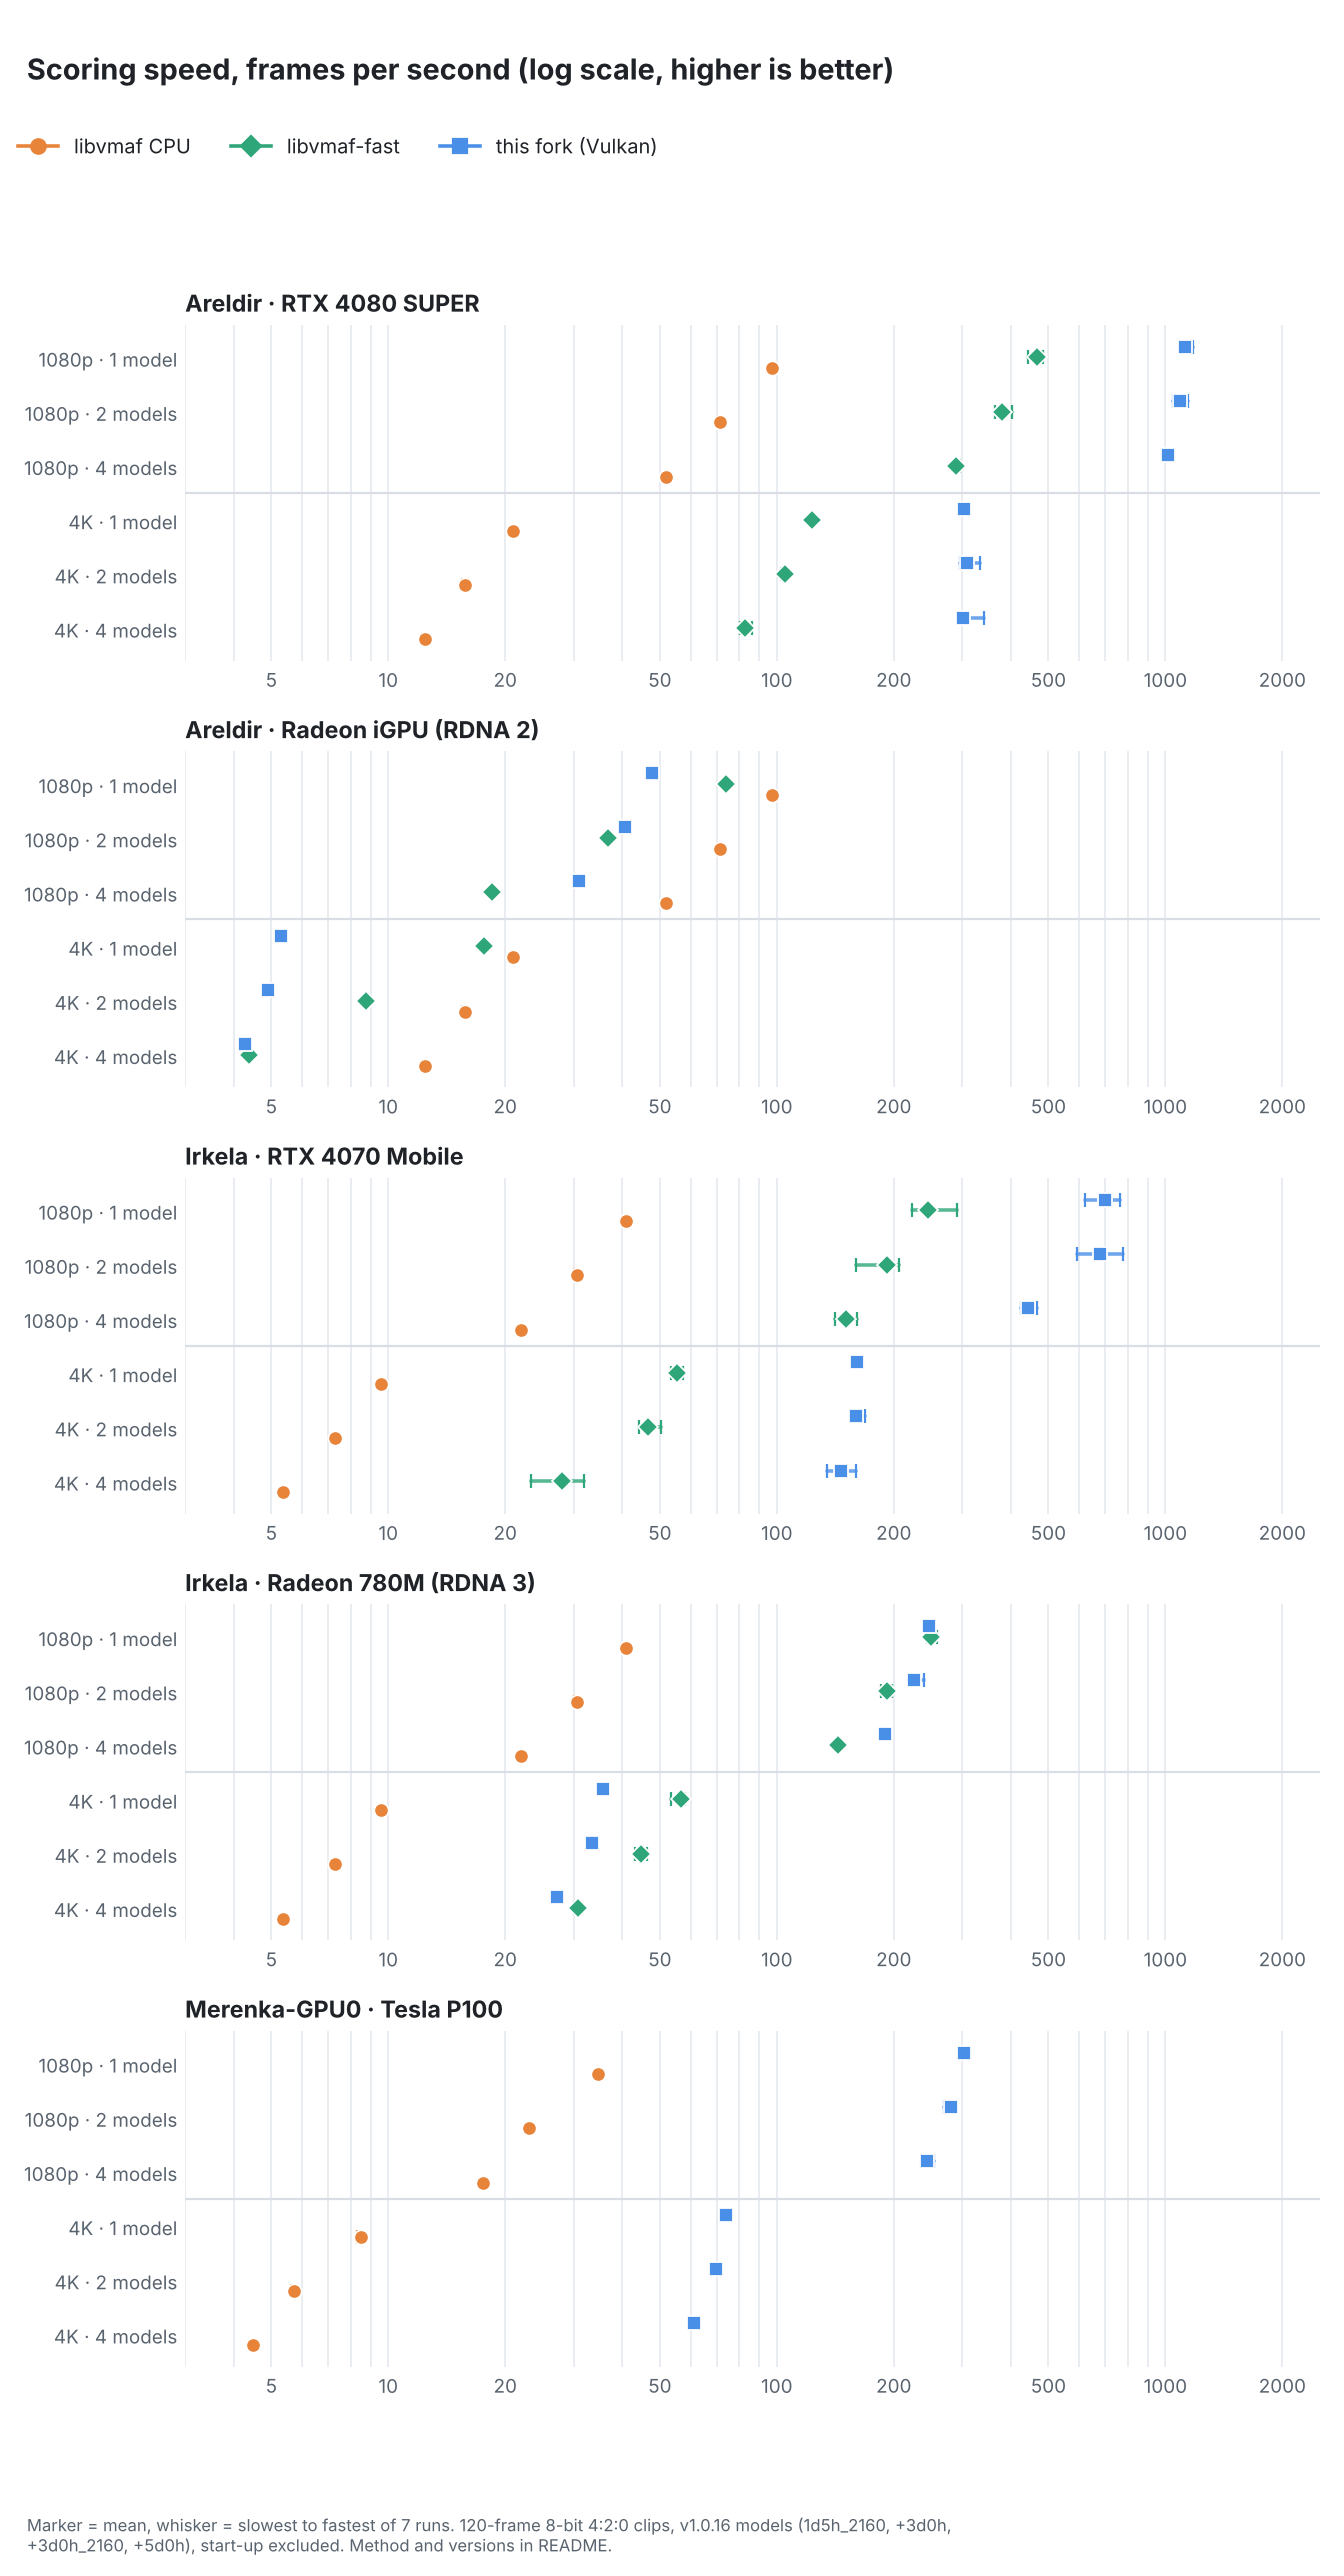
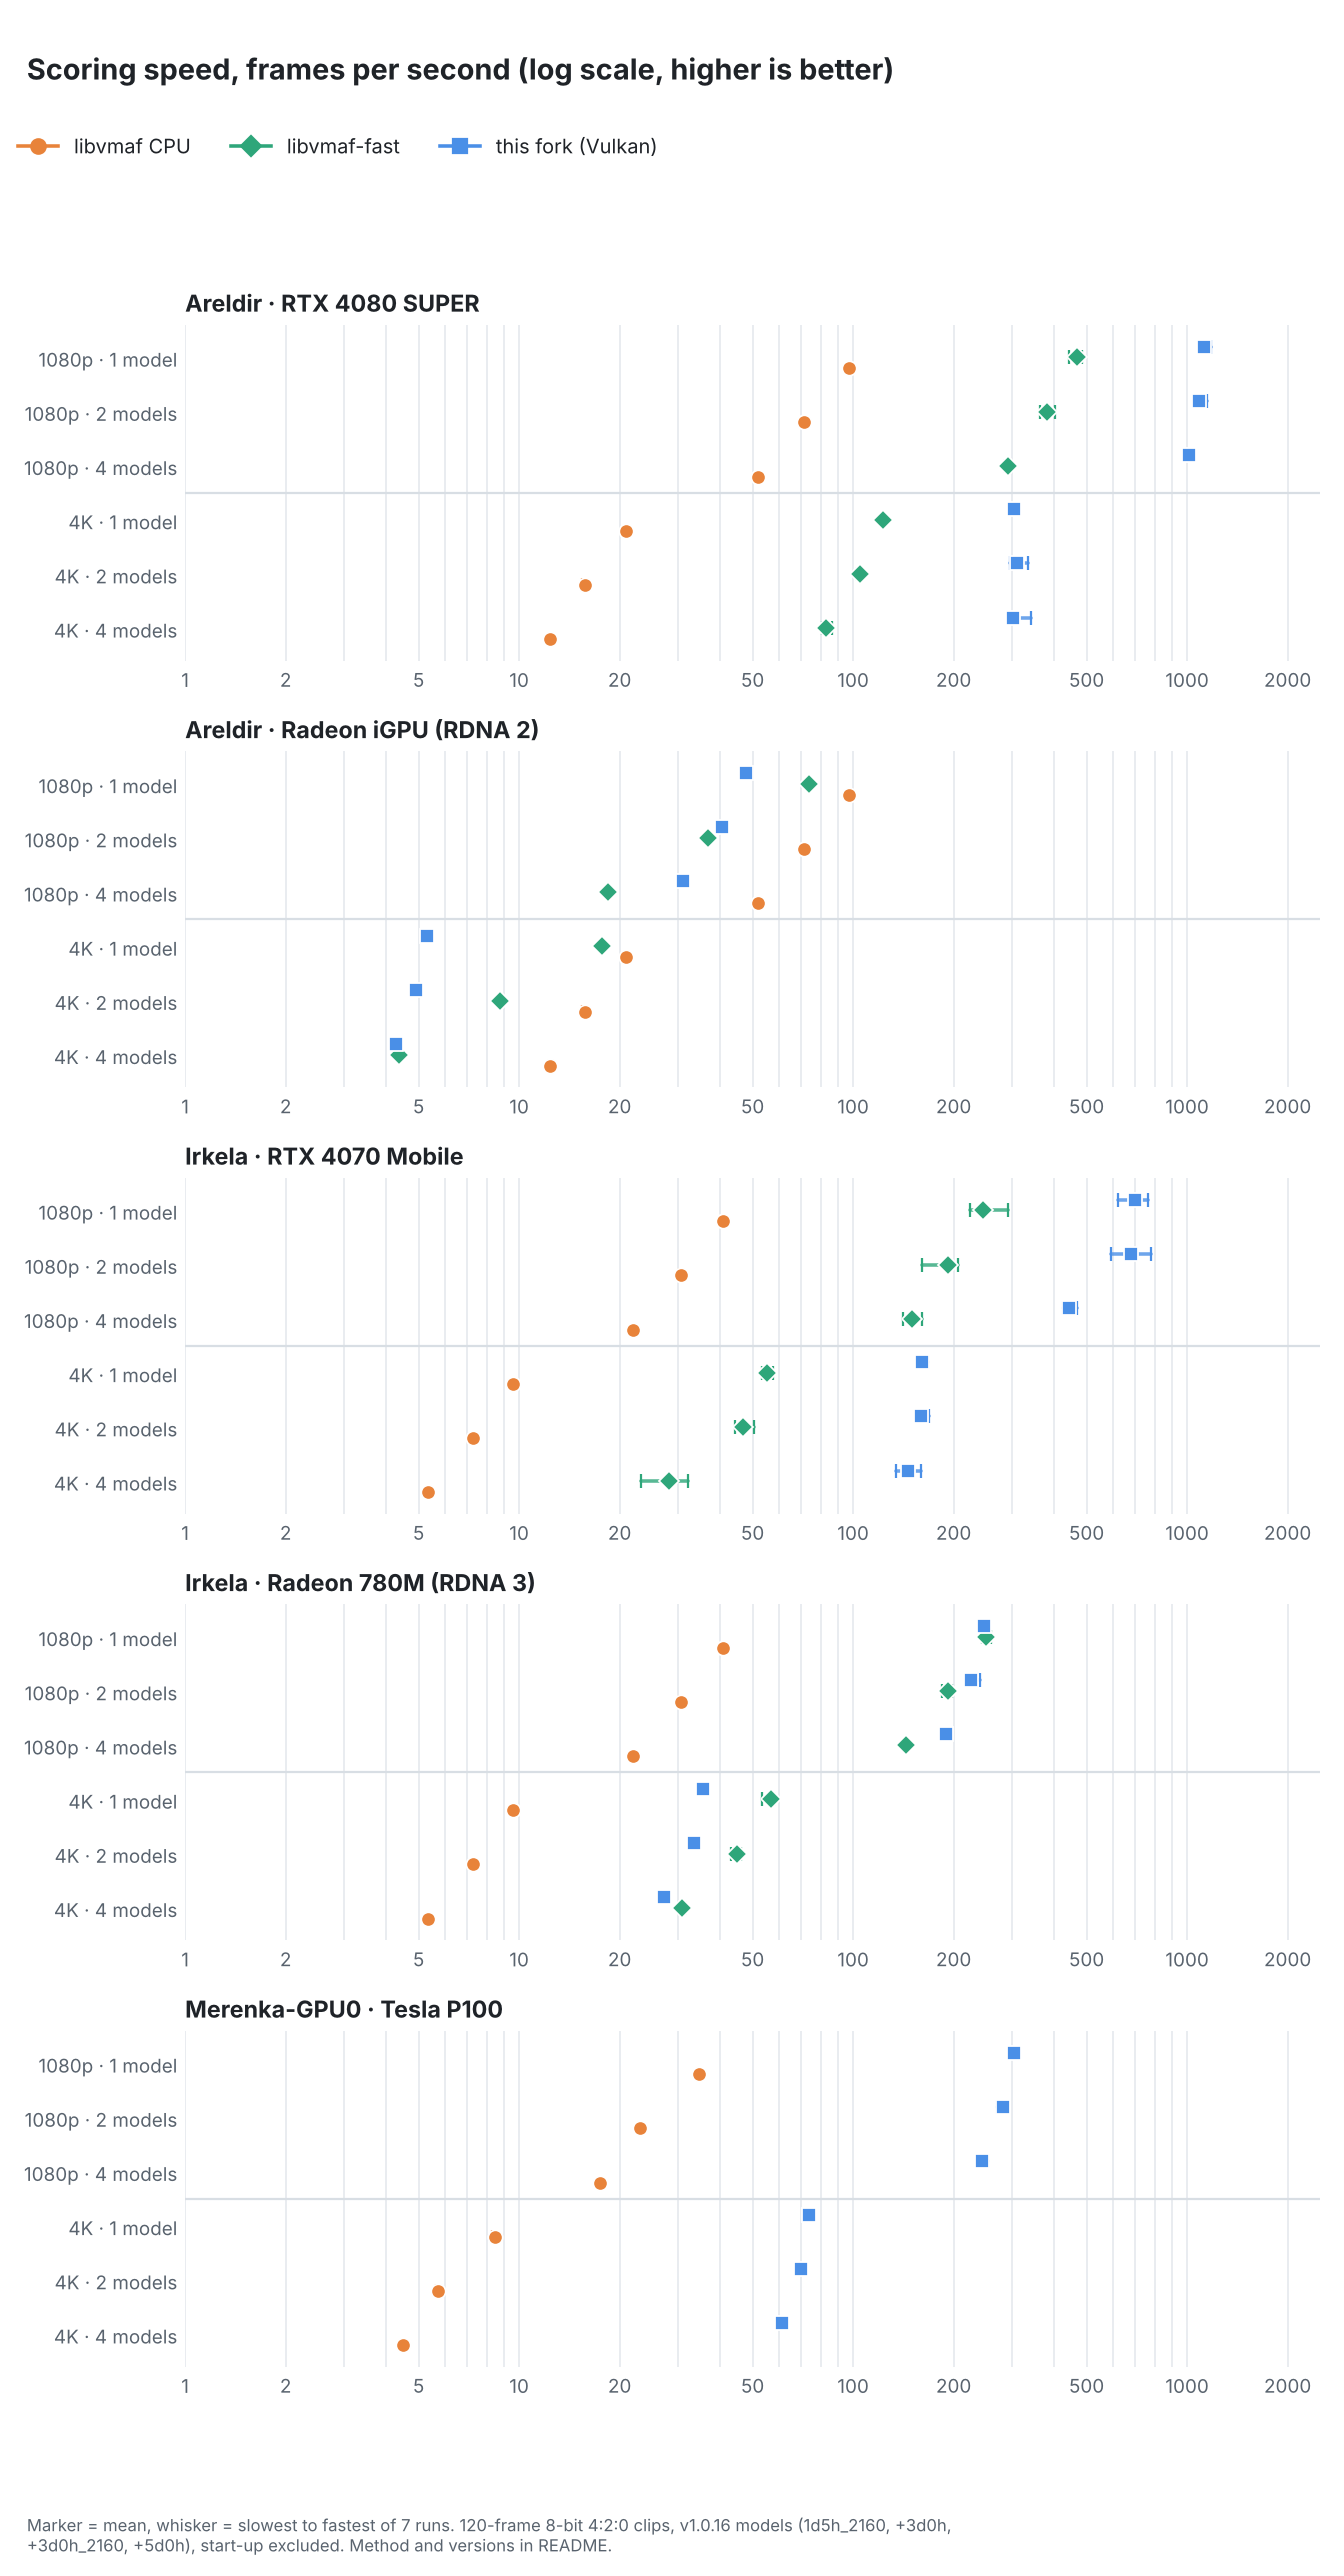
bench plot: axis from 1 fps
Claude-Session: https://claude.ai/code/session_01Ur73BRekqAxR9n8jpHiMe3

diff --git a/tools/bench/plot_bench.py b/tools/bench/plot_bench.py
@@ -19,7 +19,7 @@ THEMES = {
     "light": dict(bg="#ffffff", fg="#1f2328", grid="#d8dee4", sub="#59636e"),
 }
 ENGINES = [("cpu", "libvmaf CPU", "o", "#e8833a"), ("fast", "libvmaf-fast", "D", "#2ea67a"), ("vulkan", "this fork (Vulkan)", "s", "#4a8fe7")]
-XLIM = (3, 2500)  # same fps axis in every panel
+XLIM = (1, 2500)  # same fps axis in every panel
 ROWS = [(r, n) for r in ("1080", "4k") for n in (1, 2, 4)]
 
 

diff --git a/README.md b/README.md
@@ -14,7 +14,7 @@ A fork of [Netflix/vmaf](https://github.com/Netflix/vmaf) that runs the VMAF fea
 
 ## Benchmarks
 
-Scoring speed in frames per second for 1, 2 and 4 VMAF v1.0.16 models scored in one pass, at 1080p and 4K, on three machines (five GPUs, one datacenter GPU). Each machine runs the CPU code of this fork, [libvmaf-fast](https://github.com/4KVCD/libvmaf-fast) (4KVCD's Vulkan VMAF library, Windows only) and this fork's Vulkan backend. Marker = mean, whisker = slowest to fastest of 7 runs; the axis is logarithmic and the same in every panel (3 to 2500 fps).
+Scoring speed in frames per second for 1, 2 and 4 VMAF v1.0.16 models scored in one pass, at 1080p and 4K, on three machines (five GPUs, one datacenter GPU). Each machine runs the CPU code of this fork, [libvmaf-fast](https://github.com/4KVCD/libvmaf-fast) (4KVCD's Vulkan VMAF library, Windows only) and this fork's Vulkan backend. Marker = mean, whisker = slowest to fastest of 7 runs; the axis is logarithmic and the same in every panel (1 to 2500 fps).
 
 <picture>
   <source media="(prefers-color-scheme: dark)" srcset="docs/benchmark-v1-dark.png">
